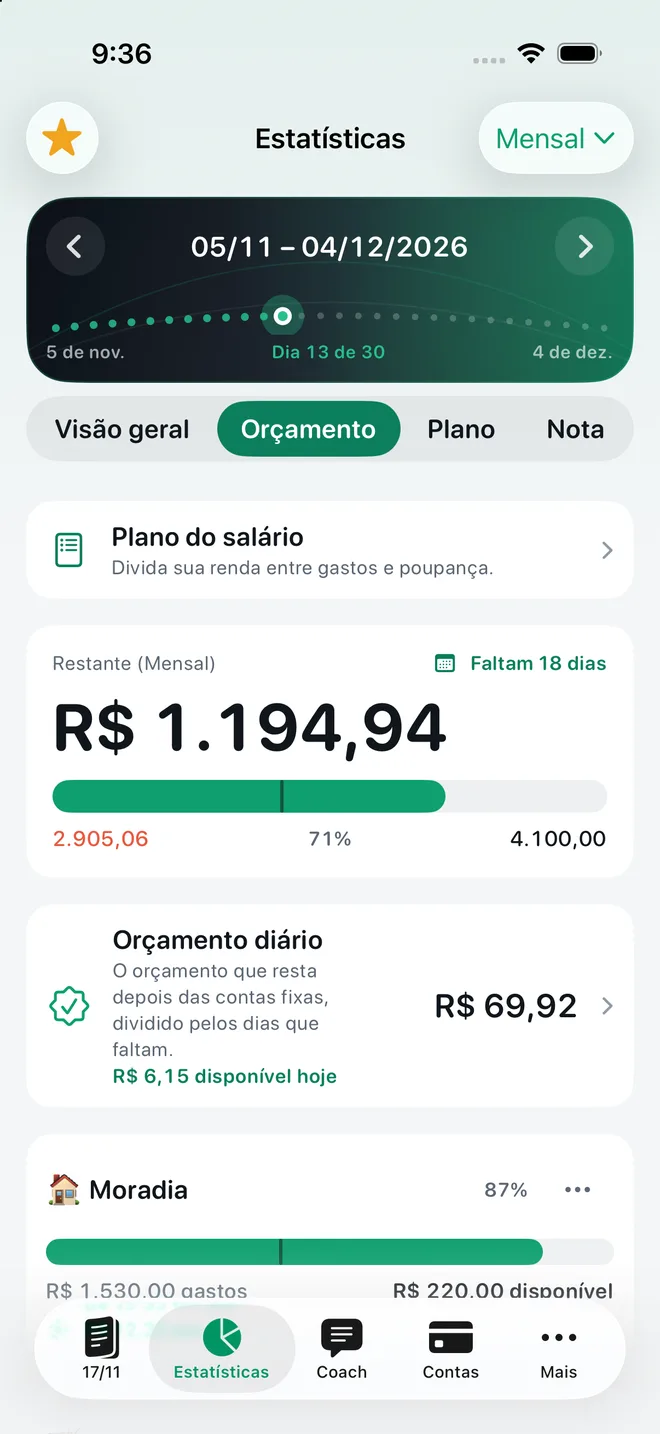
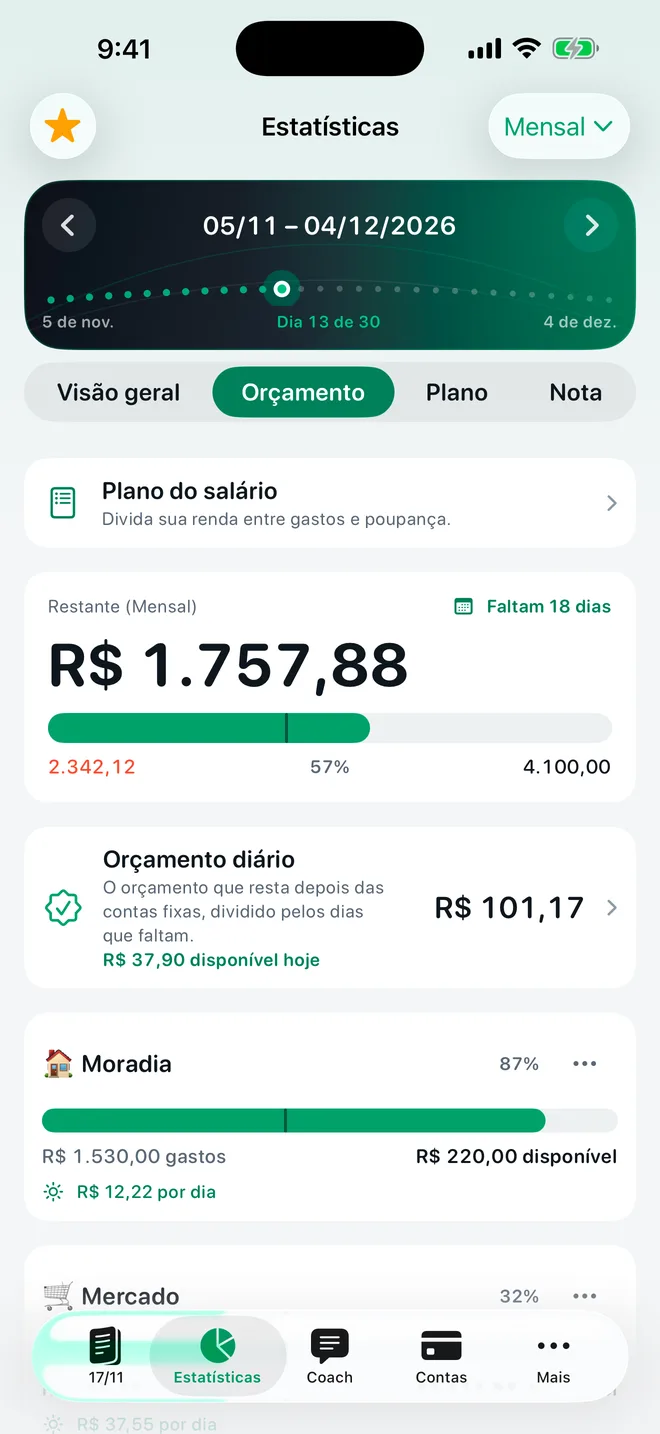
Website: 1.6.0 is live on the App Store

diff --git a/pt/index.html b/pt/index.html
@@ -10,7 +10,7 @@
 <main id="main" class="article"><h1>Anote seus gastos quase sem digitar</h1>
 <p class="lead">Cole o aviso do banco ou do Pix e o lançamento já vem preenchido, ou fale “café 8, uber 23 e almoço 35” e pronto, são três gastos. Seu mês começa no dia do pagamento, e o orçamento diário mostra quanto dá para gastar hoje. O TrackExpenses é um controle de gastos privado para iPhone e iPad, todo em português.</p>
 <a class="store-cta" href="https://apps.apple.com/app/apple-store/id6806614497?pt=127826363&amp;ct=web-pt-index&amp;mt=8" aria-label="Baixe o Controle de Gastos e Finanças na App Store"><img class="app-icon" src="../assets/icon-128.webp" width="48" height="48" alt=""><img class="badge" src="../assets/app-store.svg" width="120" height="40" alt=""></a>
-<div class="ar-shots"><figure><img src="../assets/pt/ledger.webp" width="660" height="1434" alt="Lançamentos no TrackExpenses em português: receitas de R$ 4.500,00, gastos de R$ 2.905,06 e o orçamento diário de R$ 69,92 no período de 05/11 a 04/12/2026" decoding="async"><figcaption>Seu mês, de salário a salário</figcaption></figure><figure><img src="../assets/pt/voice.webp" width="660" height="1434" alt="A entrada por voz: “café 7,50”, “uber 27” e “mercado 130 no Pão de Açúcar” viram três lançamentos para revisar" loading="lazy" decoding="async"><figcaption>Uma frase, três gastos</figcaption></figure><figure><img src="../assets/pt/alerts.webp" width="660" height="1434" alt="Avisos do banco viram lançamentos: uma compra aprovada no Pão de Açúcar e um Pix recebido de R$ 150,00; um código de verificação fica de fora" loading="lazy" decoding="async"><figcaption>Compra e Pix, lançados</figcaption></figure><figure><img src="../assets/pt/budget.webp" width="660" height="1434" alt="Estatísticas do orçamento: R$ 1.194,94 restantes no mês, o plano do salário e um orçamento diário de R$ 69,92" loading="lazy" decoding="async"><figcaption>Quanto ainda dá para gastar</figcaption></figure></div>
+<div class="ar-shots"><figure><img src="../assets/pt/ledger.webp" width="660" height="1434" alt="Lançamentos no TrackExpenses em português: receitas de R$ 4.500,00, gastos de R$ 2.342,12, o orçamento diário de R$ 101,17 e uma compra no Pão de Açúcar lançada a partir do aviso do banco, no período de 05/11 a 04/12/2026" decoding="async"><figcaption>Seu mês, de salário a salário</figcaption></figure><figure><img src="../assets/pt/voice.webp" width="660" height="1434" alt="A entrada por voz: “café 7,50”, “uber 27” e “mercado 130 no Pão de Açúcar” viram três lançamentos para revisar" loading="lazy" decoding="async"><figcaption>Uma frase, três gastos</figcaption></figure><figure><img src="../assets/pt/alerts.webp" width="660" height="1434" alt="Avisos do banco viram lançamentos: uma compra aprovada no Pão de Açúcar e um Pix recebido de R$ 150,00; um código de verificação fica de fora" loading="lazy" decoding="async"><figcaption>Compra e Pix, lançados</figcaption></figure><figure><img src="../assets/pt/budget.webp" width="660" height="1434" alt="Estatísticas do orçamento: R$ 1.757,88 restantes no mês, o plano do salário e um orçamento diário de R$ 101,17" loading="lazy" decoding="async"><figcaption>Quanto ainda dá para gastar</figcaption></figure></div>
 
 <h2 id="paste">Cole o aviso do banco ou do Pix</h2>
 <p>Copie o texto do aviso, do SMS, do e-mail ou do comprovante no app do banco, e cole no TrackExpenses: valor, estabelecimento, data e cartão vêm preenchidos, e você confere antes de salvar. Funciona com qualquer banco que escreva o valor no aviso.</p>

diff --git a/es/index.html b/es/index.html
@@ -10,7 +10,7 @@
 <main id="main" class="article"><h1>Tus gastos, registrados casi sin escribir</h1>
 <p class="lead">Pega el aviso de tu banco y el movimiento queda listo, o di “café 35, taxi 120 y almuerzo 85” y se vuelven tres gastos. Tu mes empieza el día que cobras, y el presupuesto diario te dice cuánto puedes gastar hoy. TrackExpenses es un control de gastos privado para iPhone y iPad, todo en español.</p>
 <a class="store-cta" href="https://apps.apple.com/app/apple-store/id6806614497?pt=127826363&amp;ct=web-es-index&amp;mt=8" aria-label="Descarga Control de Gastos: Presupuesto en el App Store"><img class="app-icon" src="../assets/icon-128.webp" width="48" height="48" alt=""><img class="badge" src="../assets/app-store.svg" width="120" height="40" alt=""></a>
-<div class="ar-shots"><figure><img src="../assets/es/ledger.webp" width="660" height="1434" alt="Estadísticas en TrackExpenses en español: $9,850.90 restantes del presupuesto mensual del 15/11 al 14/12/2026, el plan del salario y un presupuesto diario de $359.18" decoding="async"><figcaption>Tu mes, de quincena a quincena</figcaption></figure><figure><img src="../assets/es/voice.webp" width="660" height="1434" alt="El registro por voz: “café 30”, “taxi 110” y “súper 510 en Walmart” quedan como tres movimientos para revisar" loading="lazy" decoding="async"><figcaption>Una frase, tres gastos</figcaption></figure><figure><img src="../assets/es/alerts.webp" width="660" height="1434" alt="Avisos de BBVA convertidos en movimientos: una compra en Walmart y otra en Pemex; un código de seguridad queda fuera" loading="lazy" decoding="async"><figcaption>Los avisos del banco, convertidos en gastos</figcaption></figure><figure><img src="../assets/es/coach.webp" width="660" height="1434" alt="El coach financiero responde “¿Qué puedo mejorar?”: los cafecitos suman $483.00 este mes" loading="lazy" decoding="async"><figcaption>Un coach que habla tu idioma</figcaption></figure></div>
+<div class="ar-shots"><figure><img src="../assets/es/ledger.webp" width="660" height="1434" alt="Estadísticas en TrackExpenses en español: $9,472.36 restantes del presupuesto mensual del 15/11 al 14/12/2026, el plan del salario y un presupuesto diario de $347.33" decoding="async"><figcaption>Tu mes, de quincena a quincena</figcaption></figure><figure><img src="../assets/es/voice.webp" width="660" height="1434" alt="El registro por voz: “café 30”, “taxi 110” y “súper 510 en Walmart” quedan como tres movimientos para revisar" loading="lazy" decoding="async"><figcaption>Una frase, tres gastos</figcaption></figure><figure><img src="../assets/es/alerts.webp" width="660" height="1434" alt="Avisos de BBVA convertidos en movimientos: una compra en Walmart y otra en Pemex; un código de seguridad queda fuera" loading="lazy" decoding="async"><figcaption>Los avisos del banco, convertidos en gastos</figcaption></figure><figure><img src="../assets/es/coach.webp" width="660" height="1434" alt="El coach financiero responde “¿Qué puedo mejorar?”: los cafecitos suman $483.00 este mes" loading="lazy" decoding="async"><figcaption>Un coach que habla tu idioma</figcaption></figure></div>
 
 <h2 id="paste">Pega el aviso de tu banco y listo</h2>
 <p>Copia el texto del aviso, del SMS, del correo o del detalle del movimiento en la app de tu banco, y pégalo en TrackExpenses: el monto, el comercio, la fecha y la tarjeta se llenan solos, y tú revisas antes de guardar. Funciona con cualquier banco que escriba el monto en su aviso.</p>

diff --git a/_content/pt/home.html b/_content/pt/home.html
@@ -1,7 +1,7 @@
 <h1>Anote seus gastos quase sem digitar</h1>
 <p class="lead">Cole o aviso do banco ou do Pix e o lançamento já vem preenchido, ou fale “café 8, uber 23 e almoço 35” e pronto, são três gastos. Seu mês começa no dia do pagamento, e o orçamento diário mostra quanto dá para gastar hoje. O TrackExpenses é um controle de gastos privado para iPhone e iPad, todo em português.</p>
 {{APP_STORE_CTA}}
-<div class="ar-shots"><figure><img src="../assets/pt/ledger.webp" width="660" height="1434" alt="Lançamentos no TrackExpenses em português: receitas de R$ 4.500,00, gastos de R$ 2.905,06 e o orçamento diário de R$ 69,92 no período de 05/11 a 04/12/2026" decoding="async"><figcaption>Seu mês, de salário a salário</figcaption></figure><figure><img src="../assets/pt/voice.webp" width="660" height="1434" alt="A entrada por voz: “café 7,50”, “uber 27” e “mercado 130 no Pão de Açúcar” viram três lançamentos para revisar" loading="lazy" decoding="async"><figcaption>Uma frase, três gastos</figcaption></figure><figure><img src="../assets/pt/alerts.webp" width="660" height="1434" alt="Avisos do banco viram lançamentos: uma compra aprovada no Pão de Açúcar e um Pix recebido de R$ 150,00; um código de verificação fica de fora" loading="lazy" decoding="async"><figcaption>Compra e Pix, lançados</figcaption></figure><figure><img src="../assets/pt/budget.webp" width="660" height="1434" alt="Estatísticas do orçamento: R$ 1.194,94 restantes no mês, o plano do salário e um orçamento diário de R$ 69,92" loading="lazy" decoding="async"><figcaption>Quanto ainda dá para gastar</figcaption></figure></div>
+<div class="ar-shots"><figure><img src="../assets/pt/ledger.webp" width="660" height="1434" alt="Lançamentos no TrackExpenses em português: receitas de R$ 4.500,00, gastos de R$ 2.342,12, o orçamento diário de R$ 101,17 e uma compra no Pão de Açúcar lançada a partir do aviso do banco, no período de 05/11 a 04/12/2026" decoding="async"><figcaption>Seu mês, de salário a salário</figcaption></figure><figure><img src="../assets/pt/voice.webp" width="660" height="1434" alt="A entrada por voz: “café 7,50”, “uber 27” e “mercado 130 no Pão de Açúcar” viram três lançamentos para revisar" loading="lazy" decoding="async"><figcaption>Uma frase, três gastos</figcaption></figure><figure><img src="../assets/pt/alerts.webp" width="660" height="1434" alt="Avisos do banco viram lançamentos: uma compra aprovada no Pão de Açúcar e um Pix recebido de R$ 150,00; um código de verificação fica de fora" loading="lazy" decoding="async"><figcaption>Compra e Pix, lançados</figcaption></figure><figure><img src="../assets/pt/budget.webp" width="660" height="1434" alt="Estatísticas do orçamento: R$ 1.757,88 restantes no mês, o plano do salário e um orçamento diário de R$ 101,17" loading="lazy" decoding="async"><figcaption>Quanto ainda dá para gastar</figcaption></figure></div>
 
 <h2 id="paste">Cole o aviso do banco ou do Pix</h2>
 <p>Copie o texto do aviso, do SMS, do e-mail ou do comprovante no app do banco, e cole no TrackExpenses: valor, estabelecimento, data e cartão vêm preenchidos, e você confere antes de salvar. Funciona com qualquer banco que escreva o valor no aviso.</p>

diff --git a/_content/es/home.html b/_content/es/home.html
@@ -1,7 +1,7 @@
 <h1>Tus gastos, registrados casi sin escribir</h1>
 <p class="lead">Pega el aviso de tu banco y el movimiento queda listo, o di “café 35, taxi 120 y almuerzo 85” y se vuelven tres gastos. Tu mes empieza el día que cobras, y el presupuesto diario te dice cuánto puedes gastar hoy. TrackExpenses es un control de gastos privado para iPhone y iPad, todo en español.</p>
 {{APP_STORE_CTA}}
-<div class="ar-shots"><figure><img src="../assets/es/ledger.webp" width="660" height="1434" alt="Estadísticas en TrackExpenses en español: $9,850.90 restantes del presupuesto mensual del 15/11 al 14/12/2026, el plan del salario y un presupuesto diario de $359.18" decoding="async"><figcaption>Tu mes, de quincena a quincena</figcaption></figure><figure><img src="../assets/es/voice.webp" width="660" height="1434" alt="El registro por voz: “café 30”, “taxi 110” y “súper 510 en Walmart” quedan como tres movimientos para revisar" loading="lazy" decoding="async"><figcaption>Una frase, tres gastos</figcaption></figure><figure><img src="../assets/es/alerts.webp" width="660" height="1434" alt="Avisos de BBVA convertidos en movimientos: una compra en Walmart y otra en Pemex; un código de seguridad queda fuera" loading="lazy" decoding="async"><figcaption>Los avisos del banco, convertidos en gastos</figcaption></figure><figure><img src="../assets/es/coach.webp" width="660" height="1434" alt="El coach financiero responde “¿Qué puedo mejorar?”: los cafecitos suman $483.00 este mes" loading="lazy" decoding="async"><figcaption>Un coach que habla tu idioma</figcaption></figure></div>
+<div class="ar-shots"><figure><img src="../assets/es/ledger.webp" width="660" height="1434" alt="Estadísticas en TrackExpenses en español: $9,472.36 restantes del presupuesto mensual del 15/11 al 14/12/2026, el plan del salario y un presupuesto diario de $347.33" decoding="async"><figcaption>Tu mes, de quincena a quincena</figcaption></figure><figure><img src="../assets/es/voice.webp" width="660" height="1434" alt="El registro por voz: “café 30”, “taxi 110” y “súper 510 en Walmart” quedan como tres movimientos para revisar" loading="lazy" decoding="async"><figcaption>Una frase, tres gastos</figcaption></figure><figure><img src="../assets/es/alerts.webp" width="660" height="1434" alt="Avisos de BBVA convertidos en movimientos: una compra en Walmart y otra en Pemex; un código de seguridad queda fuera" loading="lazy" decoding="async"><figcaption>Los avisos del banco, convertidos en gastos</figcaption></figure><figure><img src="../assets/es/coach.webp" width="660" height="1434" alt="El coach financiero responde “¿Qué puedo mejorar?”: los cafecitos suman $483.00 este mes" loading="lazy" decoding="async"><figcaption>Un coach que habla tu idioma</figcaption></figure></div>
 
 <h2 id="paste">Pega el aviso de tu banco y listo</h2>
 <p>Copia el texto del aviso, del SMS, del correo o del detalle del movimiento en la app de tu banco, y pégalo en TrackExpenses: el monto, el comercio, la fecha y la tarjeta se llenan solos, y tú revisas antes de guardar. Funciona con cualquier banco que escriba el monto en su aviso.</p>

diff --git a/_ops/screenshot-assets.md b/_ops/screenshot-assets.md
@@ -73,3 +73,36 @@ what the feature does, not as someone's ledger. The Spanish daily list was not u
 covers its top. The bank-SMS guides' 18 pictures each are the real Shortcuts captures in
 `marketing/sms-setup-es/screens/ios27` and `marketing/sms-setup-pt-BR/screens/ios27`, 540 px WebP quality 80 in
 `assets/es/sms/` and `assets/pt/sms/`, as the German ones.
+
+Replaced 17 November 2026, the same day — the eight home-page captures above predated the last string fixes (the voice page
+said “Solo dilo.” where the app now says “Dilo y listo.”). They now come from the store-screenshot capture pass (roadmap
+6.4), on the integrated 1.16.0 branch after the second screen sweep: iPhone 17 Pro Max simulator, iOS 26.5, 1320 × 2868,
+light, status bar 9:41, Mexican and Brazilian demo ledgers (`-seed-demo -pro -demo-sms-hero`, the day's other purchase
+deleted in the app so today is under its share, as in the store set). Sources copied unchanged into
+`marketing/website-2026-11-latam/raw/` as `*-1117-store-pass-*.png` (the earlier eight stay beside them), scaled to
+660 × 1434, WebP quality 82:
+- `assets/es/ledger.webp` ← `es-1117-store-pass-stats-budget.png` (Stats → Budget: $9,804.13 left, daily budget $359.18)
+- `assets/es/voice.webp` ← `es-1117-store-pass-onb-voice.png` (onboarding page 2, “Dilo y listo.”, three drafts saved)
+- `assets/es/alerts.webp` ← `es-1117-store-pass-onb-sms.png` (onboarding page 3: BBVA alerts at Walmart and Pemex filed, a code skipped)
+- `assets/es/coach.webp` ← `es-1117-store-pass-onb-coach.png` (onboarding page 5, the coach answering “¿Qué puedo mejorar?”)
+- `assets/pt/ledger.webp` ← `pt-1117-store-pass-daily.png` (Lançamentos → Diário: the Pão de Açúcar purchase from a bank alert, R$ 6,65 left today)
+- `assets/pt/voice.webp` ← `pt-1117-store-pass-onb-voice.png` (onboarding voice demo, “É só falar.”)
+- `assets/pt/alerts.webp` ← `pt-1117-store-pass-onb-sms.png` (onboarding page 3: Pão de Açúcar and a Pix received filed, a code skipped)
+- `assets/pt/budget.webp` ← `pt-1117-store-pass-stats-budget.png` (Stats → Budget: R$ 1.195,44 left, daily budget R$ 69,92)
+
+Replaced 17 November 2026, later the same day — the app changed after the store pass (a budget month is named for the
+month that holds most of its days, the Mexican and Brazilian demo ledgers rebalanced so today is under its share, the
+Brazilian bank SMS read to "PAO DE ACUCAR" on the Nubank card). Recaptured from a fresh `-reset-state -seed-demo -pro
+-demo-sms-hero` launch of the integrated branch (`5a0d31e`): iPhone 17 Pro Max simulator, iOS 26.5, 1320 × 2868, light,
+status bar 9:41; nothing deleted in the app any more. The onboarding captures are the settled frames (coach with
+`-coach-demo-at 20`), taken with the market's own ledger so the demos use its currency. Sources copied unchanged into
+`marketing/website-2026-11-latam/raw/` as `*-1117-recapture-*.png` (the earlier ones stay beside them), scaled to
+660 × 1434, WebP quality 82:
+- `assets/es/ledger.webp` ← `es-1117-recapture-stats-budget.png` (Stats → Budget: $9,472.36 left, daily budget $347.33)
+- `assets/es/voice.webp` ← `es-1117-recapture-onb-voice.png` (onboarding page 2, “Dilo y listo.”, three drafts saved)
+- `assets/es/alerts.webp` ← `es-1117-recapture-onb-sms.png` (onboarding page 3: BBVA alerts at Walmart and Pemex filed, a code skipped)
+- `assets/es/coach.webp` ← `es-1117-recapture-onb-coach.png` (onboarding page 5, the coach answering “¿Qué puedo mejorar?”, $483.00)
+- `assets/pt/ledger.webp` ← `pt-1117-recapture-daily.png` (Lançamentos → Diário: Pão de Açúcar R$ 63,27 on Nubank from a bank alert, R$ 37,90 left of R$ 101,17 today)
+- `assets/pt/voice.webp` ← `pt-1117-recapture-onb-voice.png` (onboarding voice demo, “É só falar.”)
+- `assets/pt/alerts.webp` ← `pt-1117-recapture-onb-sms.png` (onboarding page 3: Pão de Açúcar and a Pix received filed, a code skipped)
+- `assets/pt/budget.webp` ← `pt-1117-recapture-stats-budget.png` (Stats → Budget: R$ 1.757,88 left, daily budget R$ 101,17)
